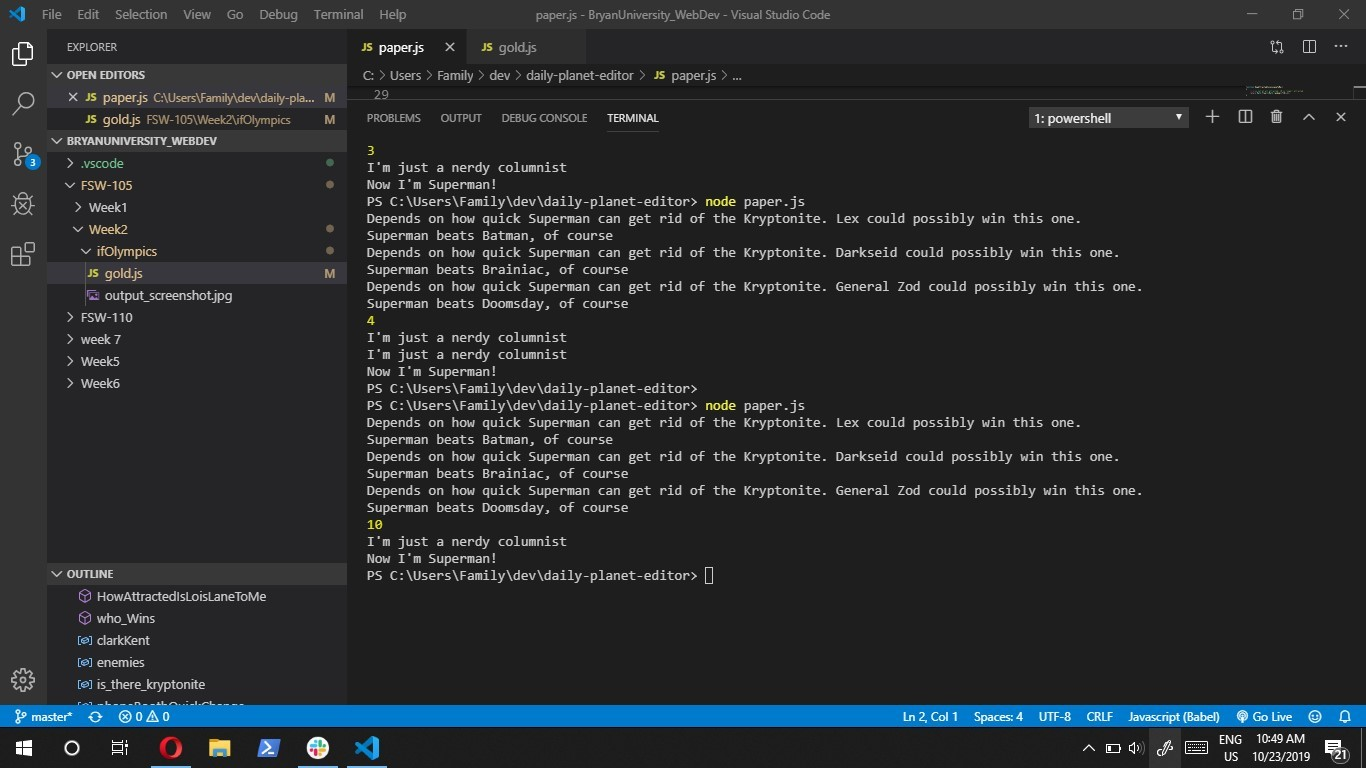
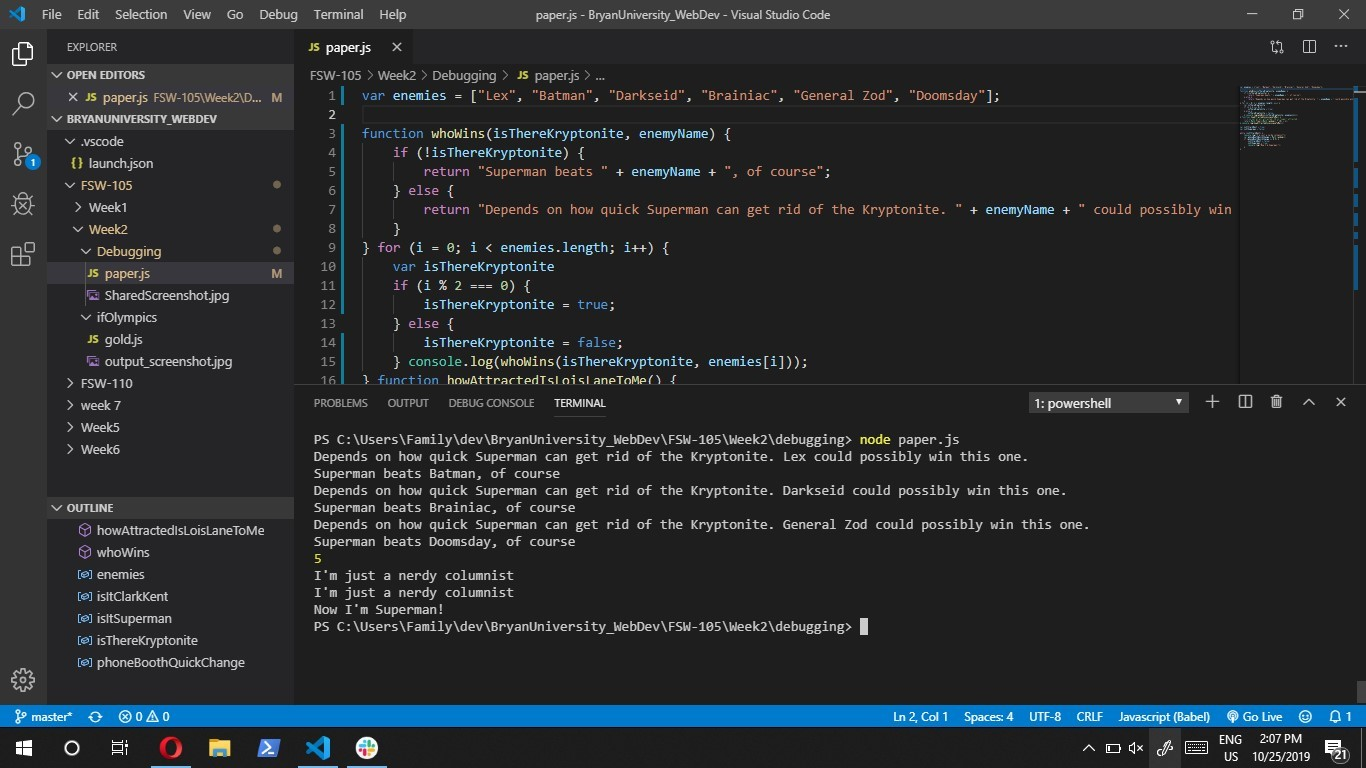
debuggingfix

diff --git a/FSW-105/Week2/Debugging/paper.js b/FSW-105/Week2/Debugging/paper.js
@@ -1,41 +1,32 @@
-var enemies=["Lex","Batman","Darkseid","Brainiac","General Zod","Doomsday"];
+var enemies = ["Lex", "Batman", "Darkseid", "Brainiac", "General Zod", "Doomsday"];
 
-function who_Wins(is_there_kryptonite,enemy_Name)
-{
-if (!is_there_kryptonite)
-{
-    return "Superman beats " +enemy_Name+ ", of course";
-}
-
-else{
-    return "Depends on how quick Superman can get rid of the Kryptonite. "+ enemy_Name +" could possibly win this one.";
-}}
-    
-for (i=0;i<enemies.length; i++)
-{
-    var is_there_kryptonite
-    if (i%2=== 0) {
-        is_there_kryptonite = true;
+function whoWins(isThereKryptonite, enemyName) {
+    if (!isThereKryptonite) {
+        return "Superman beats " + enemyName + ", of course";
     } else {
-        is_there_kryptonite = false;
+        return "Depends on how quick Superman can get rid of the Kryptonite. " + enemyName + " could possibly win this one.";
     }
-    console.log(who_Wins(is_there_kryptonite,enemies[i]));
-}
-function HowAttractedIsLoisLaneToMe()
-{
+} for (i = 0; i < enemies.length; i++) {
+    var isThereKryptonite
+    if (i % 2 === 0) {
+        isThereKryptonite = true;
+    } else {
+        isThereKryptonite = false;
+    } console.log(whoWins(isThereKryptonite, enemies[i]));
+} function howAttractedIsLoisLaneToMe() {
     // 1 is not at all attracted, 10 is "super" attracted...
-    return Math.floor((Math.random()*10)+1);
-}
+    return Math.floor((Math.random() * 10) + 1);
+} console.log(howAttractedIsLoisLaneToMe());
 
-console.log( HowAttractedIsLoisLaneToMe ()) ;
+var isItClarkKent = true;
+var isItSuperman = false;
 
-var clarkKent =true;
-var superman = false;
-
-while (clarkKent){
+while (isItClarkKent) {
     console.log("I'm just a nerdy columnist");
-    var phoneBoothQuickChange =Math.random();
-    if (phoneBoothQuickChange>= 0.5) {
-        clarkKent=false;
-        superman=true;
-        console.log("Now I'm Superman!");}}
+    var phoneBoothQuickChange = Math.random();
+    if (phoneBoothQuickChange >= 0.5) {
+        isItClarkKent = false;
+        isItSuperman = true;
+        console.log("Now I'm Superman!");
+    }
+}
